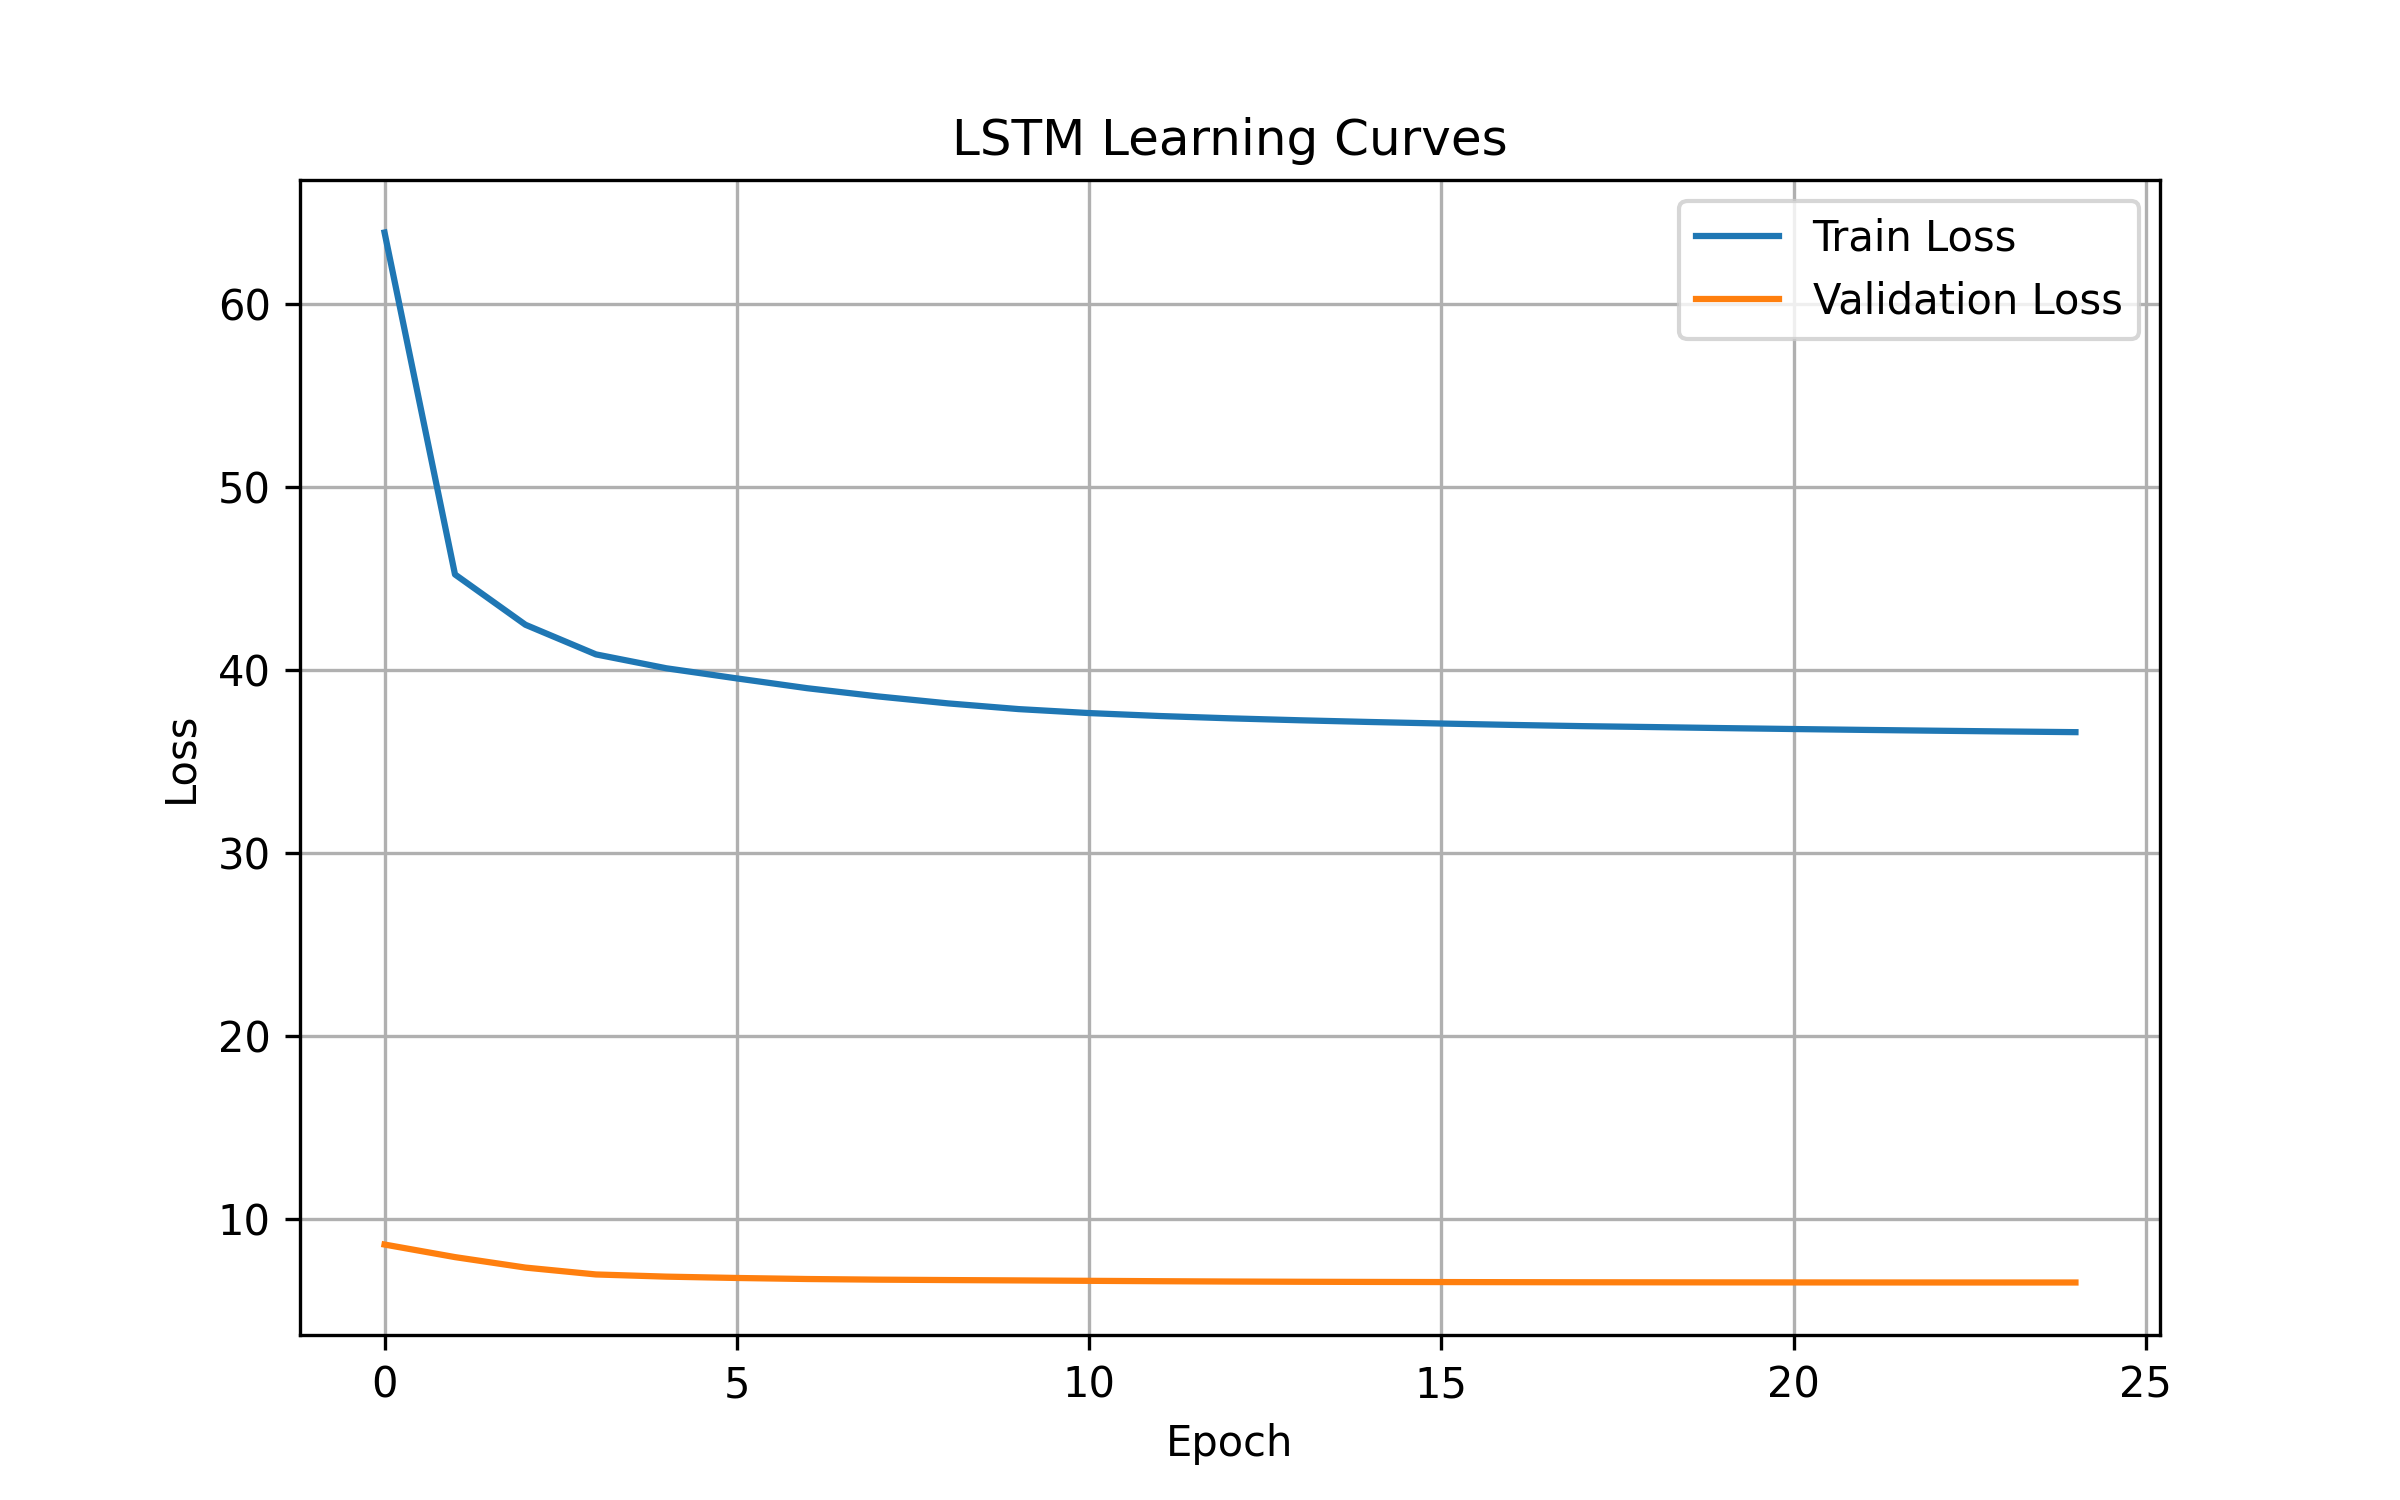
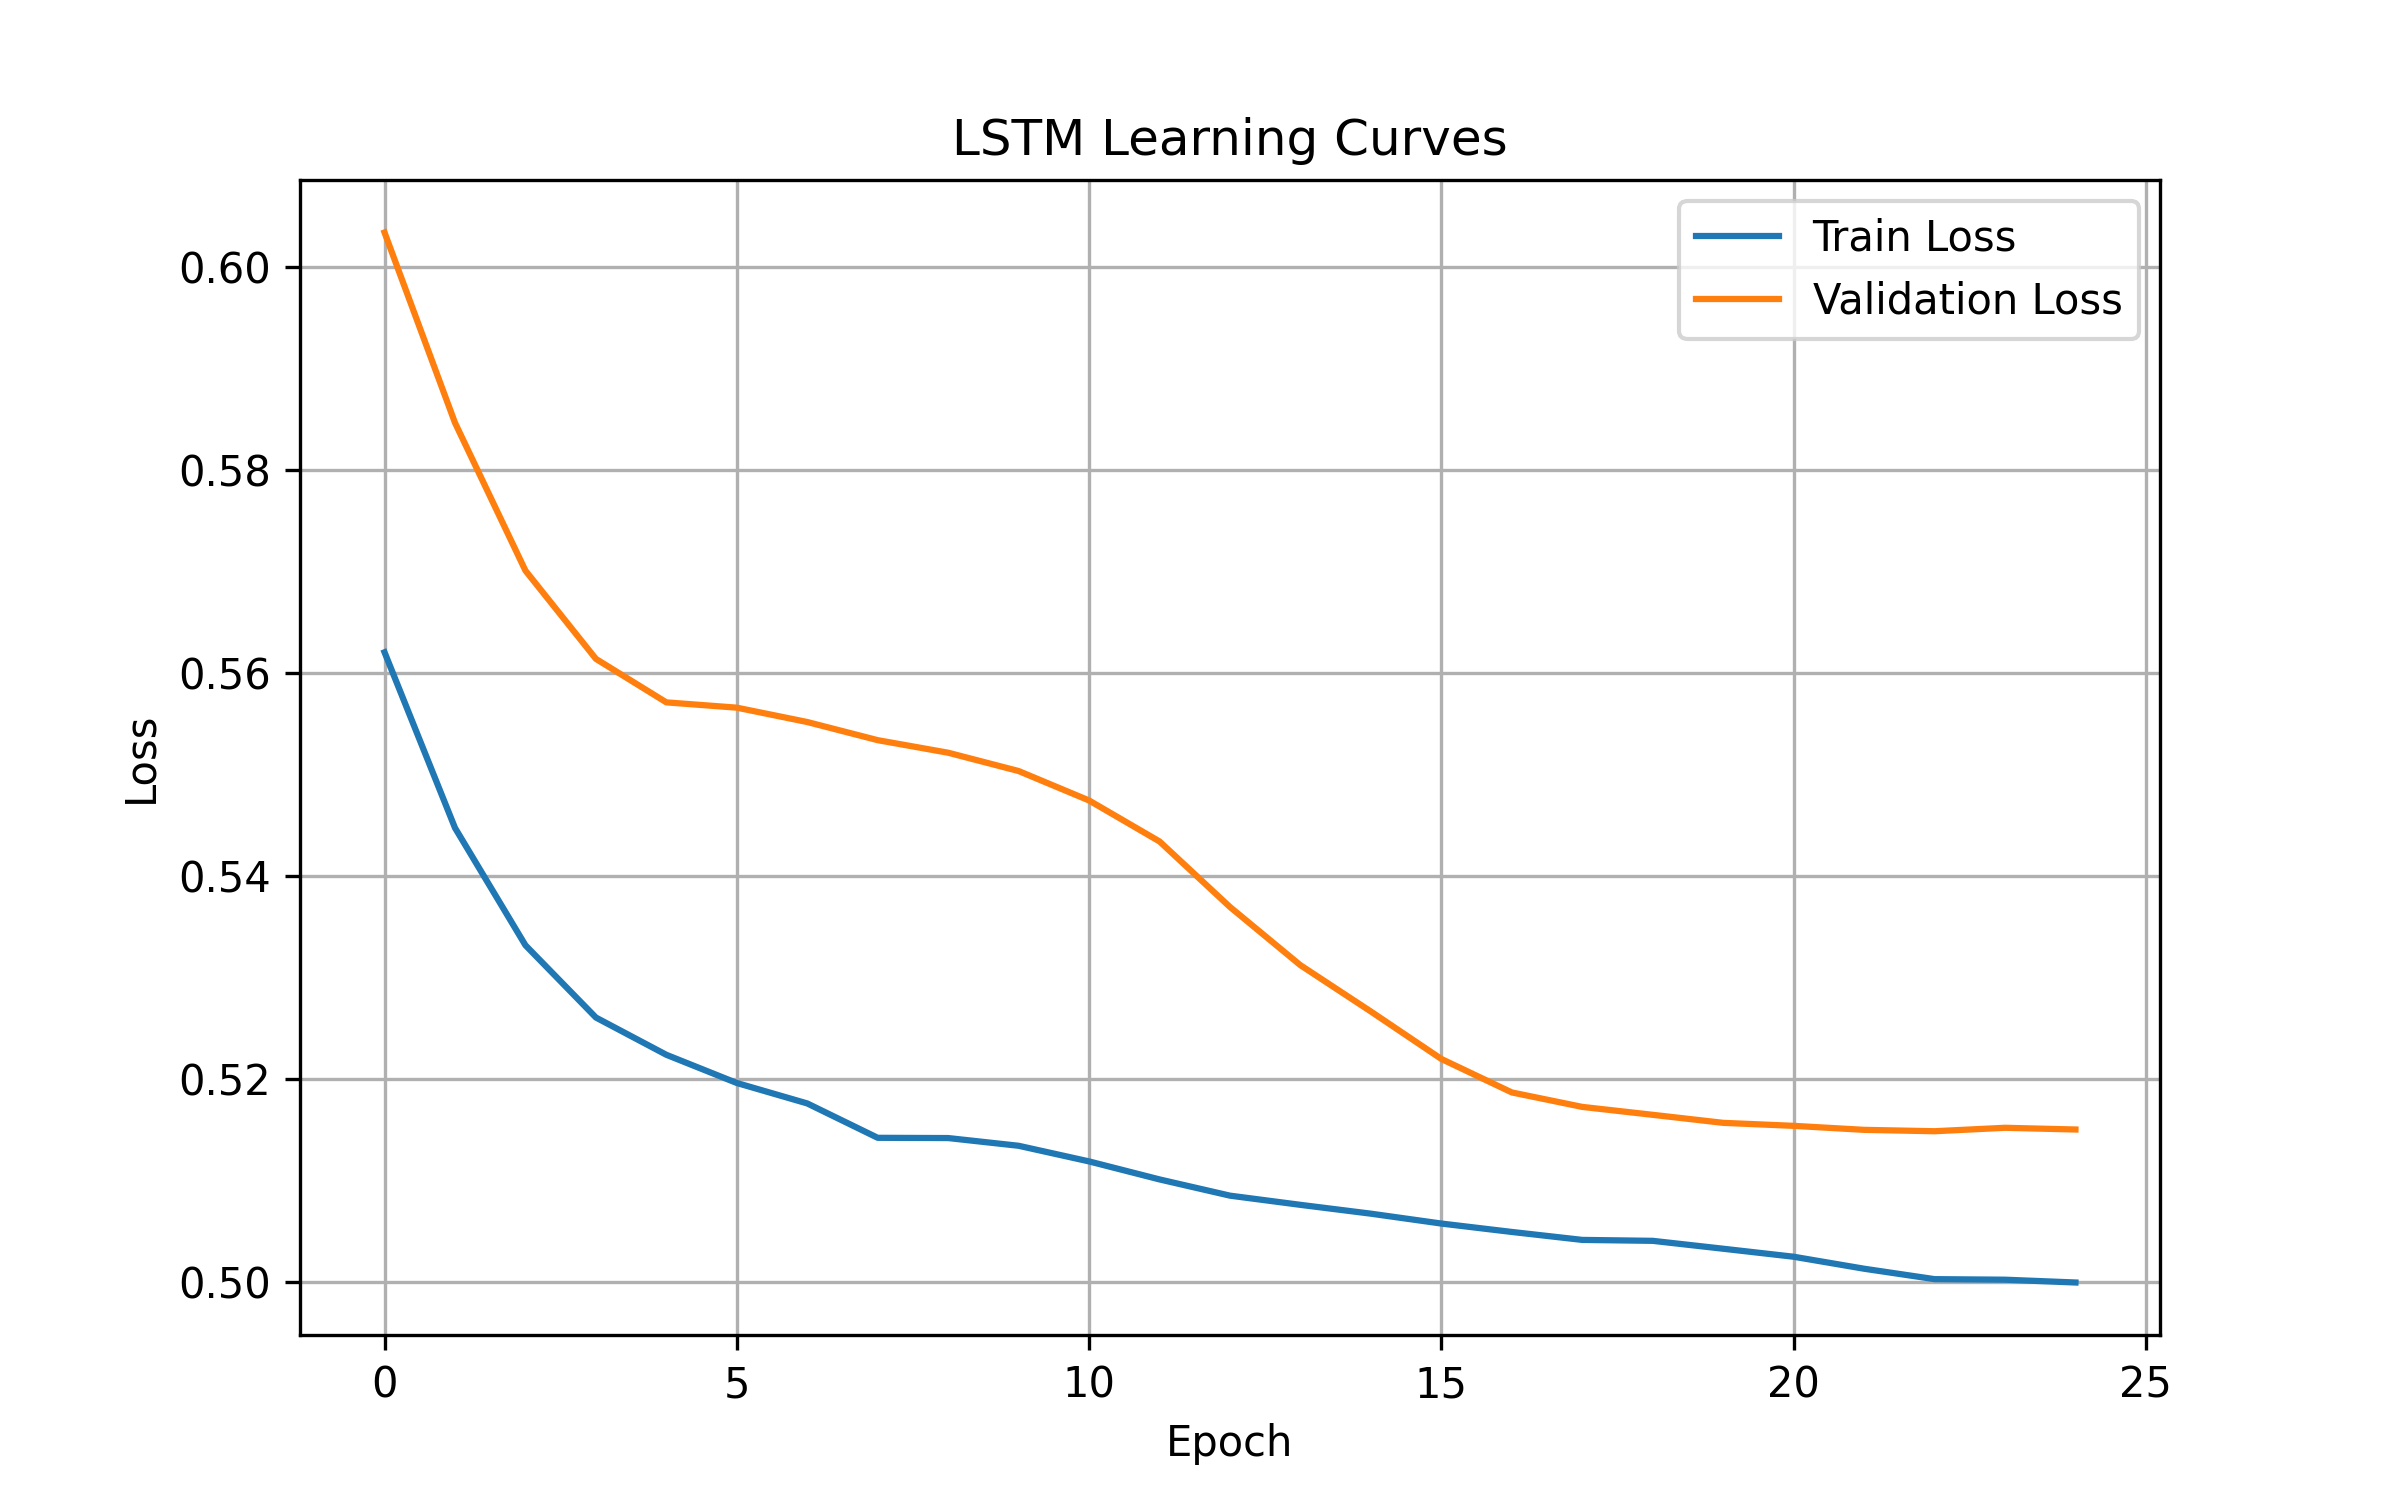
Improved lstm model

diff --git a/train/train_lstm.py b/train/train_lstm.py
@@ -3,7 +3,7 @@ import torch.nn as nn
 from torch.utils.data import DataLoader, TensorDataset
 
 import numpy as np
-from sklearn.preprocessing import MinMaxScaler
+from sklearn.preprocessing import StandardScaler
 
 from utils.dataset import load_data
 from utils.data_preprocess import clean_data, remove_outliers
@@ -25,7 +25,7 @@ DATASET_PATH = "data/"
 # ==============================
 # SEQUENCE CREATION
 # ==============================
-def create_sequences(X, y, seq_length=20):
+def create_sequences(X, y, seq_length=5):  # 🔥 shorter sequence
     X_seq, y_seq = [], []
 
     for i in range(len(X) - seq_length):
@@ -46,19 +46,24 @@ def train_model(model, train_loader, val_loader, criterion, optimizer, epochs=25
         model.train()
         total_loss = 0
 
-        # ===== TRAIN LOOP =====
         for X_batch, y_batch in train_loader:
             optimizer.zero_grad()
 
-            outputs = model(X_batch)           # shape [batch, 1]
-            loss = criterion(outputs, y_batch) # shape matches
+            outputs = model(X_batch)
+            loss = criterion(outputs, y_batch)
 
             loss.backward()
-            optimizer.step()
 
+            # 🔥 gradient clipping (stability)
+            torch.nn.utils.clip_grad_norm_(model.parameters(), 1.0)
+
+            optimizer.step()
             total_loss += loss.item()
 
-        # ===== VALIDATION LOOP (FIXED MEMORY ISSUE) =====
+        # 🔥 FIX: average loss
+        avg_train_loss = total_loss / len(train_loader)
+
+        # ===== VALIDATION =====
         model.eval()
         val_loss_total = 0
 
@@ -68,18 +73,20 @@ def train_model(model, train_loader, val_loader, criterion, optimizer, epochs=25
                 loss = criterion(outputs, y_batch)
                 val_loss_total += loss.item()
 
-        train_losses.append(total_loss)
-        val_losses.append(val_loss_total)
+        avg_val_loss = val_loss_total / len(val_loader)
 
-        print(f"Epoch {epoch+1}/{epochs} | Train Loss: {total_loss:.4f} | Val Loss: {val_loss_total:.4f}")
+        train_losses.append(avg_train_loss)
+        val_losses.append(avg_val_loss)
+
+        print(f"Epoch {epoch+1}/{epochs} | Train: {avg_train_loss:.4f} | Val: {avg_val_loss:.4f}")
 
     return train_losses, val_losses
 
 
 # ==============================
-# EVALUATION
+# EVALUATION (RESIDUAL FIX)
 # ==============================
-def evaluate(model, X_test, y_test, scaler_y):
+def evaluate(model, X_test, y_test, scaler_y, drifted_test):
     model.eval()
     preds_list = []
 
@@ -89,12 +96,16 @@ def evaluate(model, X_test, y_test, scaler_y):
             preds = model(batch)
             preds_list.append(preds.cpu().numpy())
 
-    preds = np.vstack(preds_list)
-    y_true = y_test.cpu().numpy()
+    preds_residual = np.vstack(preds_list)
+    y_residual = y_test.cpu().numpy()
 
-    # Inverse scaling
-    preds = scaler_y.inverse_transform(preds)
-    y_true = scaler_y.inverse_transform(y_true)
+    # inverse scaling
+    preds_residual = scaler_y.inverse_transform(preds_residual)
+    y_residual = scaler_y.inverse_transform(y_residual)
+
+    # 🔥 reconstruct final signal
+    preds = drifted_test + preds_residual
+    y_true = drifted_test + y_residual
 
     rmse = rsme_metrics(y_true, preds)
     mae = mae_metrics(y_true, preds)
@@ -109,7 +120,7 @@ def evaluate(model, X_test, y_test, scaler_y):
 def run():
     device = torch.device("cuda" if torch.cuda.is_available() else "cpu")
 
-    # ===== LOAD DATA =====
+    # ===== LOAD =====
     dataset = load_data(DATASET_PATH)
     dataset = clean_data(dataset)
     dataset = remove_outliers(dataset)
@@ -117,29 +128,36 @@ def run():
     print("\nAFTER CLEANING:")
     print(dataset['PM2.5'].describe())
 
-    # ===== ADD DRIFT =====
+    # ===== DRIFT =====
     dataset['PM2.5_drifted'] = add_mixed_drift_noise(dataset['PM2.5'].values)
 
     # ===== FEATURES =====
-    X = dataset[['PM2.5_drifted', 'PM10', 'NO2', 'O3', 'CO']].values
-    y = dataset['PM2.5'].values.reshape(-1, 1)
+    features = ['PM2.5_drifted', 'PM10', 'NO2', 'O3', 'CO']
+    X = dataset[features].values
 
-    # ===== NORMALIZATION =====
-    scaler_X = MinMaxScaler()
-    scaler_y = MinMaxScaler()
+    y_true = dataset['PM2.5'].values.reshape(-1, 1)
+    drifted = dataset['PM2.5_drifted'].values.reshape(-1, 1)
+
+    # 🔥 RESIDUAL TARGET
+    y_residual = y_true - drifted
+
+    # ===== SCALING =====
+    scaler_X = StandardScaler()
+    scaler_y = StandardScaler()
 
     X_scaled = scaler_X.fit_transform(X)
-    y_scaled = scaler_y.fit_transform(y)
+    y_scaled = scaler_y.fit_transform(y_residual)
 
     # ===== SEQUENCES =====
-    seq_length = 20
+    seq_length = 5
     X_seq, y_seq = create_sequences(X_scaled, y_scaled, seq_length)
 
-    # ===== SPLIT =====
     split = int(len(X_seq) * 0.8)
 
     X_train, X_test = X_seq[:split], X_seq[split:]
     y_train, y_test = y_seq[:split], y_seq[split:]
+
+    drifted_test = drifted[split + seq_length:]
 
     # ===== TORCH =====
     X_train = torch.tensor(X_train, dtype=torch.float32).to(device)
@@ -148,22 +166,22 @@ def run():
     X_test = torch.tensor(X_test, dtype=torch.float32).to(device)
     y_test_tensor = torch.tensor(y_test, dtype=torch.float32).to(device)
 
-    # ===== DATALOADERS =====
+    # ===== DATALOADER =====
     train_dataset = TensorDataset(X_train, y_train)
     val_dataset = TensorDataset(X_test, y_test_tensor)
 
-    train_loader = DataLoader(train_dataset, batch_size=64, shuffle=False)
-    val_loader = DataLoader(val_dataset, batch_size=64, shuffle=False)
+    train_loader = DataLoader(train_dataset, batch_size=128, shuffle=False)
+    val_loader = DataLoader(val_dataset, batch_size=128, shuffle=False)
 
     # ===== MODEL =====
     model = LSTMModel(
-        input_size=X_train.shape[2],   # correct feature size
-        hidden_size=64,
-        num_layers=2
+        input_size=X_train.shape[2],
+        hidden_size=128,   # 🔥 stronger
+        num_layers=1       # 🔥 simpler = better
     ).to(device)
 
     criterion = nn.MSELoss()
-    optimizer = torch.optim.Adam(model.parameters(), lr=0.001)
+    optimizer = torch.optim.Adam(model.parameters(), lr=0.0005)
 
     # ===== TRAIN =====
     train_losses, val_losses = train_model(
@@ -180,22 +198,19 @@ def run():
         model,
         X_test,
         y_test_tensor,
-        scaler_y
+        scaler_y,
+        drifted_test
     )
 
-    print("\n===== LSTM RESULTS =====")
+    print("\n===== IMPROVED LSTM RESULTS =====")
     print(f"RMSE: {rmse:.4f}")
     print(f"MAE:  {mae:.4f}")
     print(f"R2:   {r2:.4f}")
 
     # ===== VISUALIZATION =====
-    drifted_last = scaler_X.inverse_transform(
-        X_test[:, -1, :].cpu().numpy()
-    )[:, 0]
-
     calibration_plot(
         y_true=y_true,
-        y_drifted=drifted_last,
+        y_drifted=drifted_test,
         y_pred=preds,
         title="Sensor Calibration (LSTM)",
         save_path="results/lstm_calibration.png"

diff --git a/models/lstm_model.py b/models/lstm_model.py
@@ -2,14 +2,19 @@ import torch
 import torch.nn as nn
 
 class LSTMModel(nn.Module):
-    def __init__(self, input_size=1, hidden_size=64, num_layers=2):
+    def __init__(self, input_size, hidden_size=128, num_layers=1):
         super().__init__()
 
-        self.lstm = nn.LSTM(input_size, hidden_size, num_layers, batch_first=True)
-        self.fc = nn.Linear(hidden_size, 1)
+        self.lstm = nn.LSTM(
+            input_size=input_size,
+            hidden_size=128,
+            num_layers=1,
+            batch_first=True
+        )
+
+        self.fc = nn.Linear(128, 1)
 
     def forward(self, x):
         out, _ = self.lstm(x)
-        out = out[:, -1, :]   # last timestep
-        out = self.fc(out)
-        return out
+        out = out[:, -1, :]
+        return self.fc(out)

diff --git a/utils/bias.py b/utils/bias.py
@@ -26,3 +26,12 @@ def add_linear_drift_noise(signal):
 
     return signal + drift + noise
 
+def add_temporal_drift(signal):
+    drift = np.zeros_like(signal)
+
+    for i in range(1, len(signal)):
+        drift[i] = drift[i-1] + np.random.normal(0, 0.1)
+
+    noise = np.random.normal(0, 2, len(signal))
+
+    return signal + drift + noise
